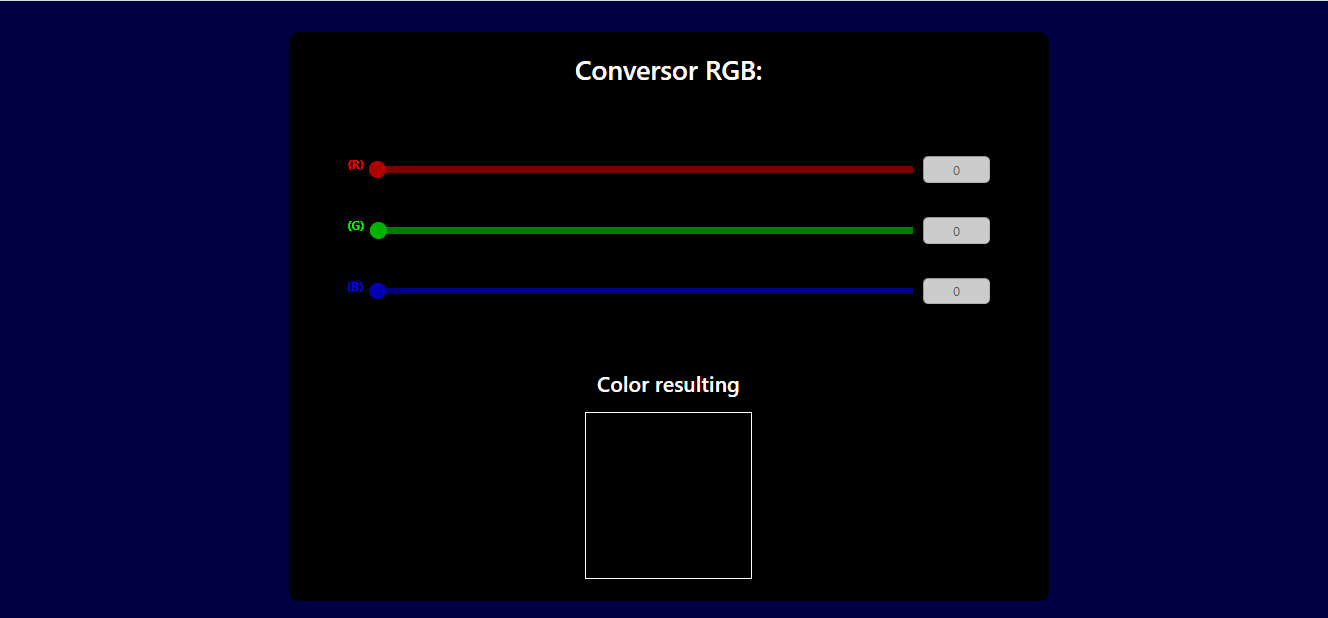
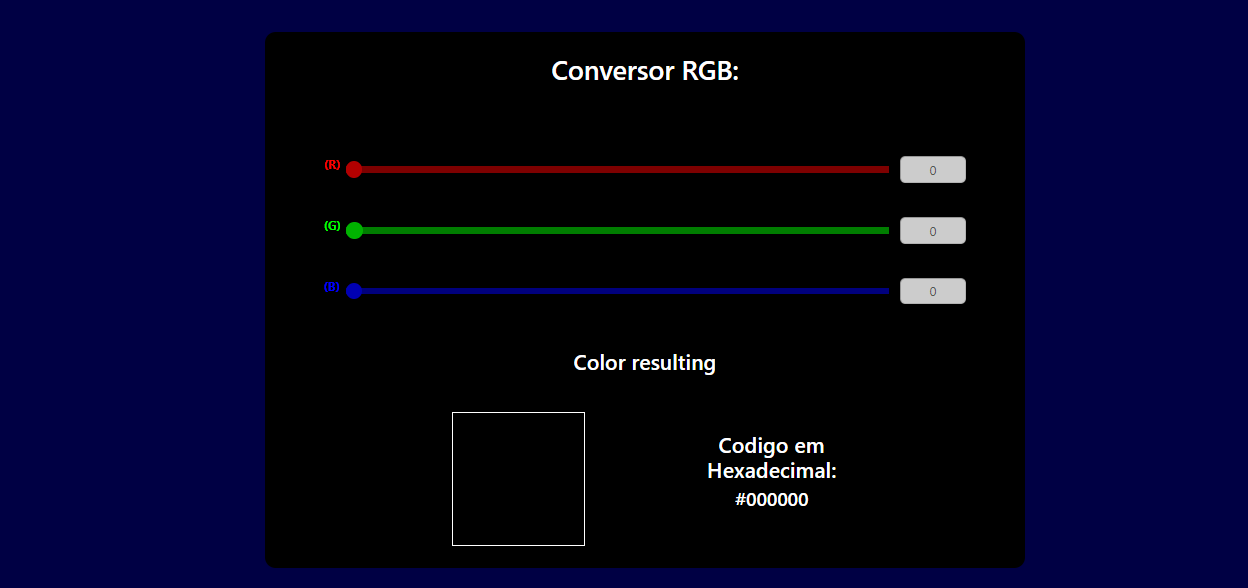
Atualização no readme

diff --git a/index.html b/index.html
@@ -97,14 +97,14 @@
       <h2>Color resulting</h2>
 
       <div class="row resultado">
-        <div class="col-3">
+        <div class="col-4">
           <div class="card rgb-transform">
             <div class="rgb-result"></div>
           </div>
         </div>
-        <div class="col-3">
+        <div class="col-4">
           <h2>Codigo em Hexadecimal:</h2>
-          <h3 class="rgbHex"></h3>
+          <h3 class="rgbHex">#000000</h3>
         </div>
       </div>
     </div>

diff --git a/script.js b/script.js
@@ -32,10 +32,12 @@ for (let slider of sliders) {
     }
 
     let radiusRGB = (redRadius + greenRadius + blueRadius) / (2 * 7.65);
-    console.log(radiusRGB);
+
     let rgbResult = redNumber + greenNumber + blueNumber;
     result.style.backgroundColor = '#' + rgbResult;
+
     document.querySelector('.rgbHex').innerHTML = '#' + rgbResult;
+
     result.style.borderRadius = radiusRGB + '%';
   });
 }

diff --git a/style.css b/style.css
@@ -40,8 +40,8 @@ h1 {
 }
 
 .rgb-result {
-  width: 250px;
-  height: 250px;
+  width: 200px;
+  height: 200px;
   margin: 16px auto;
 
   background-color: #000;
